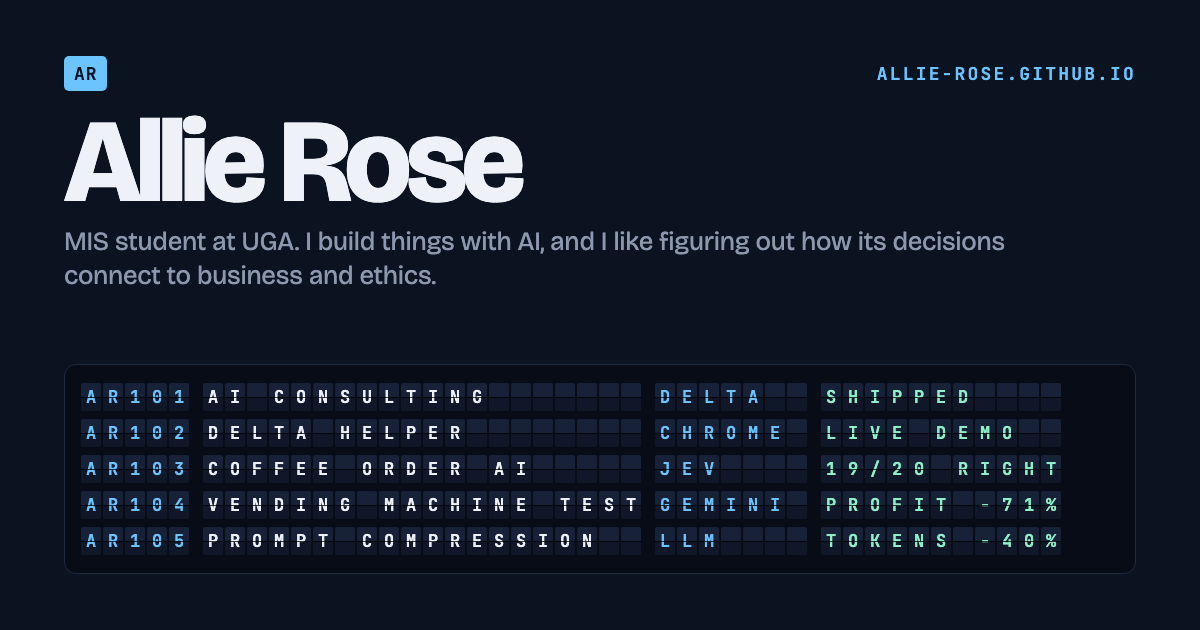
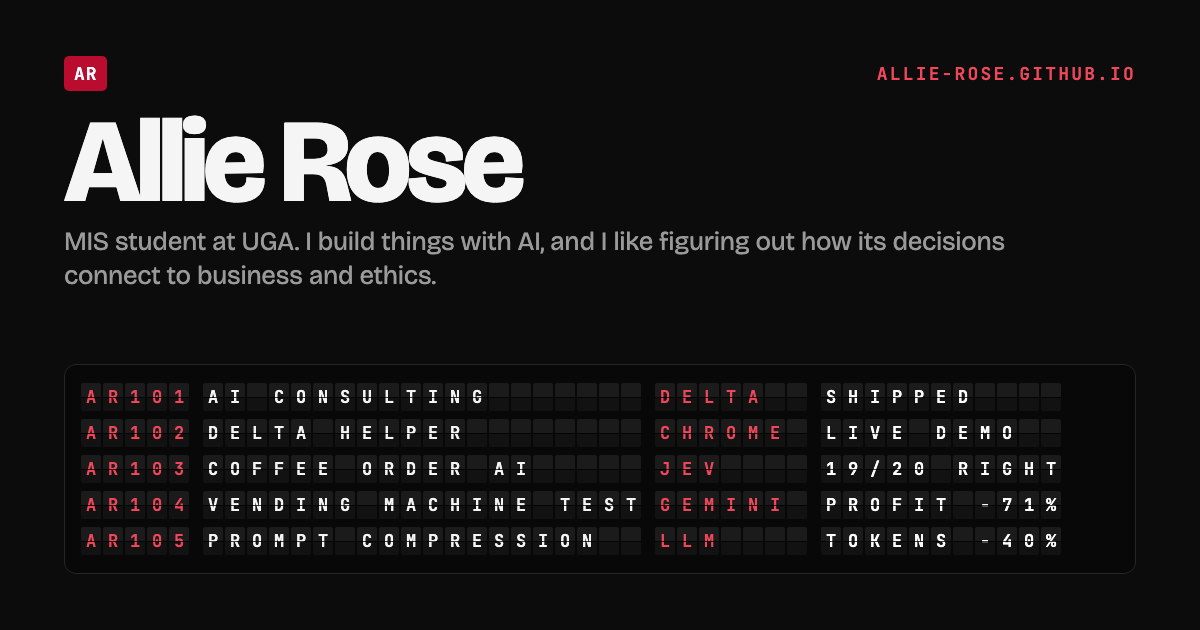
Bottleneck-first framing, UGA red/black/white palette, light theme by default
- New 'Every tool started with a bottleneck' section mapping six observed
  bottlenecks to the tool built for each
- Palette: white/black base with UGA red accents; icons and preview image match
- Light theme is the default regardless of system setting; toggle switches to dark

diff --git a/styles.css b/styles.css
@@ -1,33 +1,29 @@
 /* ============================================================
-   Look: midnight blue, bold type, airport departures board.
-   Colors are set once here; light mode swaps them below.
+   Look: white, black, and UGA red; bold type; airport departures board.
+   Light is the default for everyone. The ◐ button switches to dark,
+   which sets data-theme="dark" on <html>.
    ============================================================ */
 :root {
-  --bg: #0b1220;
-  --surface: #121b2e;
-  --surface-2: #18233a;
-  --text: #eef2f8;
-  --muted: #8b98ad;
-  --border: #24304a;
-  --accent: #6cc4ff;          /* sky blue */
-  --accent-text: #6cc4ff;
-  --accent-ink: #06121f;
-  --accent-soft: rgba(108, 196, 255, .1);
+  --bg: #f7f7f6;
+  --surface: #ffffff;
+  --surface-2: #ececeb;
+  --text: #111111;
+  --muted: #5f5f5f;
+  --border: #dcdcdc;
+  --accent: #ba0c2f;          /* UGA red, for fills */
+  --accent-text: #ba0c2f;     /* UGA red, for text on white */
+  --accent-ink: #ffffff;
+  --accent-soft: rgba(186, 12, 47, .08);
+  --ok: #1d8a50; --warn: #a96400; --bad: #c42b2b;   /* status colors in demos */
   --display: "Bricolage Grotesque", system-ui, sans-serif;
   --mono: "JetBrains Mono", ui-monospace, Menlo, monospace;
-  color-scheme: dark;
-}
-@media (prefers-color-scheme: light) {
-  :root:not([data-theme="dark"]) {
-    --bg: #edf1f7; --surface: #f8fafd; --surface-2: #dfe6f0; --text: #0d1526; --muted: #56627a;
-    --border: #cfd8e5; --accent-text: #0b67ad; --accent-soft: rgba(11, 103, 173, .1);
-    color-scheme: light;
-  }
-}
-:root[data-theme="light"] {
-  --bg: #edf1f7; --surface: #f8fafd; --surface-2: #dfe6f0; --text: #0d1526; --muted: #56627a;
-  --border: #cfd8e5; --accent-text: #0b67ad; --accent-soft: rgba(11, 103, 173, .1);
   color-scheme: light;
+}
+:root[data-theme="dark"] {
+  --bg: #0c0c0c; --surface: #151515; --surface-2: #1d1d1d; --text: #f5f5f5; --muted: #9a9a9a;
+  --border: #2a2a2a; --accent-text: #f0475a; --accent-soft: rgba(186, 12, 47, .16);
+  --ok: #34c47a; --warn: #e8a13a; --bad: #ef5d5d;
+  color-scheme: dark;
 }
 
 * { box-sizing: border-box; }
@@ -68,26 +64,26 @@ h1, h2, h3 { margin: 0; line-height: 1.05; font-family: var(--display); }
 .btn.ghost:hover { border-color: var(--text); }
 
 /* ---------- Departures board (always dark, like the real thing) ---------- */
-.board { background: #070c17; border: 1px solid #1f2a40; border-radius: 10px; padding: 14px 14px 8px; box-shadow: 0 30px 60px -30px rgba(0,0,0,.6), inset 0 1px 0 rgba(255,255,255,.04); overflow-x: auto; }
-.board-head { display: flex; justify-content: space-between; font: 600 .72rem var(--mono); text-transform: uppercase; letter-spacing: .14em; color: #6cc4ff; padding: 0 4px 10px; border-bottom: 1px solid #1a2438; }
-.board-clock { color: #7f8ca3; }
+.board { background: #080808; border: 1px solid #262626; border-radius: 10px; padding: 14px 14px 8px; box-shadow: 0 30px 60px -30px rgba(0,0,0,.6), inset 0 1px 0 rgba(255,255,255,.04); overflow-x: auto; }
+.board-head { display: flex; justify-content: space-between; font: 600 .72rem var(--mono); text-transform: uppercase; letter-spacing: .14em; color: #f0475a; padding: 0 4px 10px; border-bottom: 1px solid #1f1f1f; }
+.board-clock { color: #8a8a8a; }
 .board { --f: clamp(.7rem, 1.45vw, 1rem); }
 .board-cols { display: flex; gap: 14px; padding: 10px 4px 4px; font-size: var(--f); }
 .col { flex: none; width: calc(var(--n) * (1.15em + 2px) - 2px); }
-.col em { font: .62rem var(--mono); font-style: normal; text-transform: uppercase; letter-spacing: .12em; color: #5f6c84; }
+.col em { font: .62rem var(--mono); font-style: normal; text-transform: uppercase; letter-spacing: .12em; color: #6a6a6a; }
 .board-row { display: flex; gap: 14px; padding: 5px 4px; border-radius: 6px; white-space: nowrap; transition: background .15s; }
-.board-row:hover { background: #0f1a2e; }
+.board-row:hover { background: #171717; }
 .board-row:hover .flap { color: #fff; }
 .flaps { display: inline-flex; gap: 2px; flex: none; }
 .flap {
   position: relative; display: inline-grid; place-items: center;
   width: 1.15em; height: 1.55em; font: 600 var(--f) var(--mono);
-  color: #6cc4ff; background: linear-gradient(#172138 0 49%, #0f1729 51% 100%);
+  color: #f0475a; background: linear-gradient(#1b1b1b 0 49%, #121212 51% 100%);
   border-radius: 2px; box-shadow: inset 0 -1px 0 rgba(0,0,0,.6);
 }
 .flap::after { content: ""; position: absolute; left: 0; right: 0; top: 50%; height: 1px; background: rgba(0,0,0,.75); }
-.c-title .flap { color: #eef2f8; }
-.c-status .flap { color: #8ef0c6; }
+.c-title .flap { color: #f5f5f5; }
+.c-status .flap { color: #ffffff; }
 
 /* ---------- Skills ticker ---------- */
 .ticker { border-top: 1px solid var(--border); border-bottom: 1px solid var(--border); overflow: hidden; padding: 14px 0; background: var(--surface); }
@@ -155,7 +151,7 @@ h1, h2, h3 { margin: 0; line-height: 1.05; font-family: var(--display); }
 .demo-head { display: flex; align-items: baseline; gap: 1rem; flex-wrap: wrap; margin-bottom: 1.25rem; }
 .demo-head h2 { font: 600 .8rem var(--mono); text-transform: uppercase; letter-spacing: .12em; color: var(--accent-ink); background: var(--accent); padding: 4px 8px; border-radius: 4px; }
 .demo-head p { margin: 0; font-size: .92rem; flex: 1; min-width: 240px; }
-.code { background: #070c17; color: #dfe6f1; border: 1px solid #1f2a40; border-radius: 8px; padding: 1rem 1.1rem; overflow-x: auto; font: .82rem/1.6 var(--mono); max-width: 720px; margin: .5rem 0 0; }
+.code { background: #080808; color: #ececec; border: 1px solid #262626; border-radius: 8px; padding: 1rem 1.1rem; overflow-x: auto; font: .82rem/1.6 var(--mono); max-width: 720px; margin: .5rem 0 0; }
 .pull { margin: 1.5rem 0 0; padding: 0 0 0 1.25rem; border-left: 4px solid var(--accent); font-size: clamp(1.3rem, 2.6vw, 1.75rem); font-weight: 700; line-height: 1.25; letter-spacing: -.02em; max-width: 700px; }
 .pull cite { display: block; margin-top: .75rem; font: 400 .72rem var(--mono); text-transform: uppercase; letter-spacing: .08em; color: var(--muted); font-style: normal; }
 .pager { display: flex; justify-content: space-between; gap: 1rem; padding: 2rem 0 0; border-top: 1px solid var(--border); margin-top: 2rem; font: .78rem var(--mono); text-transform: uppercase; letter-spacing: .06em; }
@@ -198,7 +194,7 @@ h1, h2, h3 { margin: 0; line-height: 1.05; font-family: var(--display); }
 .dm-under h3 { margin-bottom: .5rem; font-size: 1.1rem; }
 .dm-log { display: grid; gap: .75rem; margin-bottom: 1rem; }
 .dm-label { display: block; font: .7rem var(--mono); color: var(--muted); text-transform: uppercase; letter-spacing: .08em; margin-bottom: .25rem; }
-.dm-log code { display: block; background: #070c17; color: #dfe6f1; border: 1px solid #1f2a40; border-radius: 6px; padding: .6rem .8rem; font: .8rem/1.5 var(--mono); white-space: pre-wrap; word-break: break-word; }
+.dm-log code { display: block; background: #080808; color: #ececec; border: 1px solid #262626; border-radius: 6px; padding: .6rem .8rem; font: .8rem/1.5 var(--mono); white-space: pre-wrap; word-break: break-word; }
 
 /* coffee chat */
 .dm-chat { background: var(--bg); border: 1px solid var(--border); border-radius: 10px; padding: 1rem; display: flex; flex-direction: column; gap: .6rem; min-height: 150px; }
@@ -207,7 +203,7 @@ h1, h2, h3 { margin: 0; line-height: 1.05; font-family: var(--display); }
 .dm-me { align-self: flex-end; background: var(--accent); color: var(--accent-ink); border-bottom-right-radius: 4px; font-weight: 500; }
 .dm-bot { align-self: flex-start; background: var(--surface-2); border-bottom-left-radius: 4px; }
 .dm-tag { display: inline-block; font: 600 .66rem var(--mono); text-transform: uppercase; letter-spacing: .06em; padding: 2px 8px; border-radius: 4px; margin-bottom: .4rem; color: #fff; }
-.dm-order { background: #2e7d32; } .dm-clarify { background: #c25400; } .dm-other { background: #56627a; }
+.dm-order { background: #2e7d32; } .dm-clarify { background: #c25400; } .dm-other { background: #5f5f5f; }
 .dm-receipt { display: flex; justify-content: space-between; gap: 1rem; margin-top: .2rem; }
 .dm-receipt span { font-family: var(--mono); }
 .dm-conf { display: grid; grid-template-columns: auto 1fr; gap: .6rem; align-items: center; margin-top: .5rem; font: .75rem var(--mono); color: var(--muted); }
@@ -228,13 +224,13 @@ h1, h2, h3 { margin: 0; line-height: 1.05; font-family: var(--display); }
 .dm-pbar i { display: block; height: 100%; background: var(--accent); }
 
 /* sprint terminal */
-.dm-term { background: #070c17; color: #dfe6f1; border: 1px solid #1f2a40; border-radius: 10px; padding: 1rem 1.1rem; font: .86rem/1.6 var(--mono); min-height: 200px; }
-.dm-prompt-line { color: #6cc4ff; }
-.dm-steps { color: #8ef0c6; margin: .5rem 0; }
+.dm-term { background: #080808; color: #ececec; border: 1px solid #262626; border-radius: 10px; padding: 1rem 1.1rem; font: .86rem/1.6 var(--mono); min-height: 200px; }
+.dm-prompt-line { color: #f0475a; }
+.dm-steps { color: #ffffff; margin: .5rem 0; }
 .dm-out h4 { margin: .75rem 0 .5rem; color: #fff; font: 600 .95rem var(--mono); }
 .dm-out table { width: 100%; border-collapse: collapse; font-size: .82rem; }
-.dm-out th, .dm-out td { text-align: left; padding: .4rem .5rem; border-bottom: 1px solid #1a2438; }
-.dm-out th { color: #7f8ca3; font-weight: 400; text-transform: uppercase; font-size: .7rem; letter-spacing: .06em; }
+.dm-out th, .dm-out td { text-align: left; padding: .4rem .5rem; border-bottom: 1px solid #1f1f1f; }
+.dm-out th { color: #8a8a8a; font-weight: 400; text-transform: uppercase; font-size: .7rem; letter-spacing: .06em; }
 
 /* vending comparison */
 .dm-vend { display: grid; grid-template-columns: 1.4fr 1fr; gap: 1rem; }
@@ -312,18 +308,18 @@ h1, h2, h3 { margin: 0; line-height: 1.05; font-family: var(--display); }
 .dd-tile { border: 1px solid var(--border); border-radius: 8px; padding: .55rem .7rem; background: var(--surface); }
 .dd-tile b { display: block; font-size: 1.35rem; font-weight: 800; letter-spacing: -.02em; }
 .dd-tile span { font-size: .74rem; color: var(--muted); }
-.dd-tile.dd-ok b { color: #34c47a; } .dd-tile.dd-warn b { color: #e8a13a; } .dd-tile.dd-bad b { color: #ef5d5d; }
+.dd-tile.dd-ok b { color: var(--ok); } .dd-tile.dd-warn b { color: var(--warn); } .dd-tile.dd-bad b { color: var(--bad); }
 .dd-t { width: 100%; border-collapse: collapse; font-size: .84rem; }
 .dd-t th { text-align: left; font: .66rem var(--mono); text-transform: uppercase; letter-spacing: .06em; color: var(--muted); padding: .35rem .5rem; border-bottom: 1px solid var(--border); font-weight: 400; }
 .dd-t td { padding: .5rem; border-bottom: 1px solid var(--border); vertical-align: middle; }
 .dd-pill { display: inline-block; font: 600 .68rem var(--mono); padding: 2px 7px; border-radius: 4px; white-space: nowrap; }
-.dd-pill.dd-ok { background: rgba(52,196,122,.16); color: #34c47a; }
-.dd-pill.dd-warn { background: rgba(232,161,58,.16); color: #e8a13a; }
-.dd-pill.dd-bad { background: rgba(239,93,93,.16); color: #ef5d5d; }
+.dd-pill.dd-ok { background: rgba(52,196,122,.16); color: var(--ok); }
+.dd-pill.dd-warn { background: rgba(232,161,58,.16); color: var(--warn); }
+.dd-pill.dd-bad { background: rgba(239,93,93,.16); color: var(--bad); }
 .dd-pill.dd-neutral { background: var(--surface-2); color: var(--muted); }
 .dd-bar { display: inline-block; width: 110px; height: 8px; background: var(--surface-2); border-radius: 4px; overflow: hidden; vertical-align: middle; }
 .dd-bar i { display: block; height: 100%; }
-.dd-bar .dd-ok { background: #34c47a; } .dd-bar .dd-warn { background: #e8a13a; } .dd-bar .dd-bad { background: #ef5d5d; }
+.dd-bar .dd-ok { background: var(--ok); } .dd-bar .dd-warn { background: var(--warn); } .dd-bar .dd-bad { background: var(--bad); }
 .dd-note { font-size: .82rem; color: var(--muted); margin: .8rem 0 0; }
 .dd-callout { border: 1px solid var(--border); border-left: 3px solid var(--accent); border-radius: 8px; padding: .75rem .9rem; font-size: .9rem; background: var(--surface); margin-bottom: .8rem; }
 .dd-two { display: grid; grid-template-columns: 1fr 1fr; gap: 1rem; font-size: .88rem; }
@@ -339,10 +335,10 @@ h1, h2, h3 { margin: 0; line-height: 1.05; font-family: var(--display); }
 .dd-name { text-align: left; color: var(--text); font-family: var(--display); font-size: .82rem; }
 .dd-cell { text-align: center; padding: .45rem 0; border-radius: 4px; font: 600 .75rem var(--mono); }
 .dd-l0 { background: var(--surface-2); color: var(--muted); }
-.dd-l1 { background: rgba(108,196,255,.18); } .dd-l2 { background: rgba(108,196,255,.36); }
+.dd-l1 { background: rgba(150,150,150,.2); } .dd-l2 { background: rgba(150,150,150,.38); }
 .dd-l3 { background: rgba(232,161,58,.45); } .dd-l4 { background: rgba(239,93,93,.6); color: #fff; }
 .dd-split { display: grid; grid-template-columns: 1fr auto 1.2fr; gap: .8rem; align-items: center; font-size: .88rem; }
-.dd-big { border: 1px solid #ef5d5d; border-radius: 8px; padding: .8rem; display: grid; gap: .3rem; }
+.dd-big { border: 1px solid var(--bad); border-radius: 8px; padding: .8rem; display: grid; gap: .3rem; }
 .dd-big small { color: var(--muted); }
 .dd-arrow { font-size: 1.5rem; color: var(--accent-text); }
 .dd-smalls { display: grid; gap: .4rem; }
@@ -397,3 +393,18 @@ h1, h2, h3 { margin: 0; line-height: 1.05; font-family: var(--display); }
   .kits { grid-template-columns: 1fr; }
 }
 .dd-from { font: .66rem var(--mono); text-transform: uppercase; letter-spacing: .1em; color: var(--accent-text); margin-bottom: .2rem; }
+
+/* ---------- Delta: bottleneck → tool ---------- */
+.bn { display: grid; gap: .6rem; max-width: 860px; }
+.bn-r { display: grid; grid-template-columns: 34px 1fr 24px 1fr; gap: .8rem; align-items: start; border: 1px solid var(--border); border-radius: 10px; padding: .85rem 1rem; background: var(--surface); }
+.bn-n { font: 600 .75rem var(--mono); color: var(--accent-text); padding-top: .2rem; }
+.bn-saw b { font-size: .98rem; }
+.bn-r p { margin: .25rem 0 0 !important; font-size: .86rem; line-height: 1.45; }
+.bn-saw p { color: var(--muted); }
+.bn-arrow { color: var(--accent-text); font-size: 1.2rem; padding-top: .1rem; }
+.bn-built span { font: 600 .64rem var(--mono); text-transform: uppercase; letter-spacing: .08em; color: var(--accent-text); }
+@media (max-width: 760px) {
+  .bn-r { grid-template-columns: 28px 1fr; }
+  .bn-arrow { display: none; }
+  .bn-built { grid-column: 2; border-top: 1px dashed var(--border); padding-top: .5rem; }
+}

diff --git a/content.js b/content.js
@@ -31,12 +31,12 @@ window.PORTFOLIO = {
       title: "Internal AI Consulting at Delta",
       year: "2026",
       description:
-        "Delta gave me a one-line brief: \"optimize workflow using AI.\" I built a toolkit five software teams could install in one click, saving each Scrum Master 5–8 hours a sprint. I also modeled their sprint data in a new way and found two clear ways to make planning more accurate, which I presented to a 100-person meeting.",
+        "Delta gave me a one-line brief: \"optimize workflow using AI.\" I analyzed how five software teams worked, found six bottlenecks, and built a tool for each one, saving every Scrum Master 5–8 hours a sprint. I also modeled their sprint data in a new way and found two clear ways to make planning more accurate, which I presented to a 100-person meeting.",
       tags: ["AI Strategy", "AI Agents", "Python", "Dashboards"],
       link: "",
       details: {
         summary:
-          "Delta gave me a one-line brief: \"optimize workflow using AI.\" By the end of the summer, the five software teams behind Delta's in-flight Wi-Fi had a toolkit they could install in one click: three dashboards, 17 AI agents, and a data pipeline. I also modeled the teams' sprint data in a new way, found two clear ways to make their planning more accurate, presented them to a 100-person meeting, and led the working session on putting them into practice.",
+          "Delta gave me a one-line brief: \"optimize workflow using AI.\" Before building anything, I spent time analyzing how the five software teams behind Delta's in-flight Wi-Fi actually worked and pinned down six bottlenecks. Every tool I built answers one of them: three dashboards, 17 AI agents, and a data pipeline, all installable in one click. I also modeled the teams' sprint data in a new way, found two clear ways to make their planning more accurate, presented them to a 100-person meeting, and led the working session on putting them into practice.",
         role: "Data Analytics and AI Intern, Delta Air Lines (May–Aug 2026)",
         stack: ["Python", "Flask", "Agility REST + History API", "SQLite", "Kiro AI IDE", "PowerShell / bash"],
         stats: [
@@ -54,6 +54,13 @@ window.PORTFOLIO = {
             figure: "delta-timeline",
           },
           {
+            h: "Every tool started with a bottleneck",
+            p: [
+              "I didn't start by building. I spent my first weeks analyzing how the five teams actually worked, following work from planning through release and noting every place people did the same manual steps over and over or waited on information. That gave me six bottlenecks I could point to. Every tool I built targets one of them.",
+            ],
+            figure: "delta-bottlenecks",
+          },
+          {
             h: "A new way to look at the data",
             p: [
               "I wanted to see how well sprint plans matched what actually happened, so I modeled the teams' work in a way that hadn't been done before: a daily history of every story, comparing the time planned with the time it took, and splitting each story's time into development and testing. I ran it on 66 finished stories across three sprints.",
@@ -65,7 +72,7 @@ window.PORTFOLIO = {
           {
             h: "The design",
             p: [
-              "Not everything needed AI. Questions with exact answers (what's blocked, what skipped testing) are faster and more trustworthy as code that reads the data directly. Writing (newsletters, release notes, exec decks) is where AI earns its keep. So I built both, on top of the same data. Moving five agents' worth of math into a dashboard cut each report from 60–90 seconds to 2–4, with zero AI tokens.",
+              "Each bottleneck also told me what kind of tool it needed. Not everything needed AI. Questions with exact answers (what's blocked, what skipped testing) are faster and more trustworthy as code that reads the data directly. Writing (newsletters, release notes, exec decks) is where AI earns its keep. So I built both, on top of the same data. Moving five agents' worth of math into a dashboard cut each report from 60–90 seconds to 2–4, with zero AI tokens.",
             ],
             figure: "delta-architecture",
           },
@@ -323,7 +330,7 @@ window.PORTFOLIO = {
       org: "Delta Air Lines · Internal AI consulting",
       dates: "May – Aug 2026",
       points: [
-        "Took an open-ended brief (\"optimize workflow using AI\") for 5 in-flight Wi-Fi software teams, found the six biggest bottlenecks, and built the fix.",
+        "Took an open-ended brief (\"optimize workflow using AI\") for 5 in-flight Wi-Fi software teams; analyzed how work actually flowed from planning to release and identified six bottlenecks, then built a tool targeting each one.",
         "Built three Python/Flask dashboards (10 sprint reports, release readiness, QA tracking) and 15+ AI agents that write newsletters, release notes, and exec decks. Saves each Scrum Master 5–8 hours per sprint.",
         "Modeled sprint data in a new way (66 stories, development vs. testing time) and found two clear ways to make planning more accurate; presented them to a 100-person meeting and facilitated the session on putting them into practice, which started a review of estimation practices.",
         "Shipped it as one-click installers with an auto-updater and onboarding docs, so the teams kept using it after I left.",

diff --git a/delta.js b/delta.js
@@ -182,8 +182,8 @@ DEMOS["delta-dashboard"] = function (el) {
 // ---------------------------------------------------------------
 FIGURES["delta-timeline"] = function () {
   const steps = [
-    ["Discovery", "Got a one-line brief: \"optimize workflow using AI.\" Spent the first weeks with the Scrum Masters and team leads figuring out where their time went, and found six bottlenecks."],
-    ["First agents", "Started small: two agents for one team, a sprint newsletter and a sprint closeout summary."],
+    ["Discovery", "Got a one-line brief: \"optimize workflow using AI.\" Before building anything, spent the first weeks analyzing how the teams worked, from planning through release, and pinned down six observable bottlenecks."],
+    ["First agents", "Started with the most obvious bottleneck, hand-written status updates: two agents for one team, a sprint newsletter and a sprint closeout summary."],
     ["One toolkit for five teams", "Generalized them into a shared toolkit and wrote steering files so the agents knew every team's dates, people, and rules."],
     ["Moved the mechanical work to code", "Realized five agents were just doing math. Rebuilt them as a dashboard: 2–4 seconds per report instead of 60–90, and zero AI tokens. Then added release and QA dashboards."],
     ["A new way to look at the data", "Built a daily history of every story and modeled it in a way that hadn't been done before. Found two clear ways to make planning more accurate, presented them to a 100-person meeting, and facilitated the session on putting them into practice."],
@@ -253,5 +253,28 @@ FIGURES["delta-kits"] = function () {
   ];
   return `<div class="kits">${kits
     .map(([n, who, items], i) => `<div class="kit${i === 1 ? " kit-main" : ""}"><b>${n}</b><span>${who}</span><ul>${items.map((x) => `<li>${x}</li>`).join("")}</ul></div>`)
+    .join("")}</div>`;
+};
+
+// ---------------------------------------------------------------
+// Each bottleneck I observed, and the tool built to address it
+// ---------------------------------------------------------------
+FIGURES["delta-bottlenecks"] = function () {
+  const rows = [
+    ["Standup prep was manual", "Before every standup, Scrum Masters clicked through Agility story by story to work out who had moved what and who was stuck.", "Standup prep report: moved vs. didn't move, blocked and stale work, and tester load, in one click."],
+    ["Status updates were written by hand", "Sprint newsletters, weekly decks, release notes, and quarterly reports were rebuilt from scratch every time, by copying numbers out of Agility.", "Writing agents that draft each one from live data, with rules so they never overstate progress."],
+    ["Release status took 30+ minutes to piece together", "Knowing where a monthly release stood meant querying five teams' work separately and adding it up.", "Release Readiness dashboard: one scorecard across all five teams, with at-risk work flagged."],
+    ["Work could reach Done without being tested", "Nothing flagged a story that skipped testing, and test cases were written by hand.", "QA dashboard that reads each story's status history, plus an agent that drafts test cases from acceptance criteria."],
+    ["Planning started with stories that weren't ready", "Stories came into planning missing acceptance criteria, unestimated, or too big, and plans could exceed the team's capacity.", "Backlog health check, planning advisor, story writer, and story splitter."],
+    ["Nobody could see trends over time", "Agility shows what's true today, not how work moved over weeks, so where time went was a matter of opinion.", "A daily data pipeline, and the analysis it made possible (below)."],
+  ];
+  return `<div class="bn">${rows
+    .map(([t, saw, built], i) => `
+      <div class="bn-r">
+        <span class="bn-n">${String(i + 1).padStart(2, "0")}</span>
+        <div class="bn-saw"><b>${t}</b><p>${saw}</p></div>
+        <span class="bn-arrow" aria-hidden="true">→</span>
+        <div class="bn-built"><span>What I built</span><p>${built}</p></div>
+      </div>`)
     .join("")}</div>`;
 };

diff --git a/project.html b/project.html
@@ -7,9 +7,9 @@
   <meta name="description" content="MIS + AI student at UGA. AI agents I built at Delta, a Chrome extension, a coffee-order assistant on Jev, and experiments on how AI makes decisions. Every project has a demo." />
   <meta property="og:title" content="Allie Rose · AI Portfolio" />
   <meta property="og:description" content="MIS + AI student at UGA. AI agents I built at Delta, a Chrome extension, a coffee-order assistant on Jev, and experiments on how AI makes decisions. Every project has a demo." />
-  <meta name="theme-color" content="#0b1220" />
-  <link rel="icon" href="favicon.svg?v=20261015i" type="image/svg+xml" />
-  <link rel="icon" href="favicon-32.png?v=20261015i" sizes="32x32" type="image/png" />
+  <meta name="theme-color" content="#f7f7f6" />
+  <link rel="icon" href="favicon.svg?v=20261015l" type="image/svg+xml" />
+  <link rel="icon" href="favicon-32.png?v=20261015l" sizes="32x32" type="image/png" />
   <link rel="apple-touch-icon" href="apple-touch-icon.png" />
   <meta property="og:type" content="website" />
   <meta property="og:site_name" content="Allie Rose" />
@@ -22,7 +22,7 @@
   <link rel="preconnect" href="https://fonts.googleapis.com" />
   <link rel="preconnect" href="https://fonts.gstatic.com" crossorigin />
   <link href="https://fonts.googleapis.com/css2?family=Bricolage+Grotesque:opsz,wght@12..96,400..800&family=JetBrains+Mono:wght@400;600&display=swap" rel="stylesheet" />
-  <link rel="stylesheet" href="styles.css?v=20261015i" />
+  <link rel="stylesheet" href="styles.css?v=20261015l" />
 </head>
 <body>
   <header class="nav">
@@ -42,11 +42,11 @@
 
   <footer class="wrap footer"><span id="footer"></span> · <a id="footer-email" href="#"></a> · <a id="footer-li" href="#" target="_blank" rel="noopener">LinkedIn</a></footer>
 
-  <script src="content.js?v=20261015i"></script>
-  <script src="coffee-jev.js?v=20261015i"></script>
-  <script src="demos.js?v=20261015i"></script>
-  <script src="delta.js?v=20261015i"></script>
-  <script src="project.js?v=20261015i"></script>
+  <script src="content.js?v=20261015l"></script>
+  <script src="coffee-jev.js?v=20261015l"></script>
+  <script src="demos.js?v=20261015l"></script>
+  <script src="delta.js?v=20261015l"></script>
+  <script src="project.js?v=20261015l"></script>
   <!-- Free, cookie-free visitor stats: https://allierose.goatcounter.com -->
   <script>
     // Count each project page separately (project.html?p=...), not as one page.

diff --git a/index.html b/index.html
@@ -9,9 +9,9 @@
   <meta property="og:title" content="Allie Rose · AI Portfolio" />
   <meta property="og:description" content="MIS + AI student at UGA. AI agents I built at Delta, a Chrome extension, a coffee-order assistant on Jev, and experiments on how AI makes decisions. Every project has a demo." />
   <meta property="og:url" content="https://allie-rose.github.io/" />
-  <meta name="theme-color" content="#0b1220" />
-  <link rel="icon" href="favicon.svg?v=20261015i" type="image/svg+xml" />
-  <link rel="icon" href="favicon-32.png?v=20261015i" sizes="32x32" type="image/png" />
+  <meta name="theme-color" content="#f7f7f6" />
+  <link rel="icon" href="favicon.svg?v=20261015l" type="image/svg+xml" />
+  <link rel="icon" href="favicon-32.png?v=20261015l" sizes="32x32" type="image/png" />
   <link rel="apple-touch-icon" href="apple-touch-icon.png" />
   <meta property="og:type" content="website" />
   <meta property="og:site_name" content="Allie Rose" />
@@ -24,7 +24,7 @@
   <link rel="preconnect" href="https://fonts.googleapis.com" />
   <link rel="preconnect" href="https://fonts.gstatic.com" crossorigin />
   <link href="https://fonts.googleapis.com/css2?family=Bricolage+Grotesque:opsz,wght@12..96,400..800&family=JetBrains+Mono:wght@400;600&display=swap" rel="stylesheet" />
-  <link rel="stylesheet" href="styles.css?v=20261015i" />
+  <link rel="stylesheet" href="styles.css?v=20261015l" />
 </head>
 <body>
   <header class="nav">
@@ -90,8 +90,8 @@
 
   <footer class="wrap footer"><span id="footer"></span> · <a id="footer-email" href="#"></a> · <a id="footer-li" href="#" target="_blank" rel="noopener">LinkedIn</a></footer>
 
-  <script src="content.js?v=20261015i"></script>
-  <script src="script.js?v=20261015i"></script>
+  <script src="content.js?v=20261015l"></script>
+  <script src="script.js?v=20261015l"></script>
   <!-- Free, cookie-free visitor stats: https://allierose.goatcounter.com -->
   <script>
     // Count each project page separately (project.html?p=...), not as one page.

diff --git a/script.js b/script.js
@@ -110,14 +110,11 @@
   // ---- Theme toggle (remembers choice) -------------------------
   const root = document.documentElement;
   try {
-    const saved = localStorage.getItem("theme");
+    const saved = localStorage.getItem("theme-v2");
     if (saved) root.dataset.theme = saved;
   } catch (e) {}
   $("theme").addEventListener("click", () => {
-    const light = root.dataset.theme
-      ? root.dataset.theme === "light"
-      : matchMedia("(prefers-color-scheme: light)").matches;
-    root.dataset.theme = light ? "dark" : "light";
-    try { localStorage.setItem("theme", root.dataset.theme); } catch (e) {}
+    root.dataset.theme = root.dataset.theme === "dark" ? "light" : "dark";
+    try { localStorage.setItem("theme-v2", root.dataset.theme); } catch (e) {}
   });
 })();

diff --git a/project.js b/project.js
@@ -75,14 +75,11 @@
   // Dark mode toggle (remembers choice)
   const root = document.documentElement;
   try {
-    const saved = localStorage.getItem("theme");
+    const saved = localStorage.getItem("theme-v2");
     if (saved) root.dataset.theme = saved;
   } catch (e) {}
   $("theme").addEventListener("click", () => {
-    const light = root.dataset.theme
-      ? root.dataset.theme === "light"
-      : matchMedia("(prefers-color-scheme: light)").matches;
-    root.dataset.theme = light ? "dark" : "light";
-    try { localStorage.setItem("theme", root.dataset.theme); } catch (e) {}
+    root.dataset.theme = root.dataset.theme === "dark" ? "light" : "dark";
+    try { localStorage.setItem("theme-v2", root.dataset.theme); } catch (e) {}
   });
 })();
